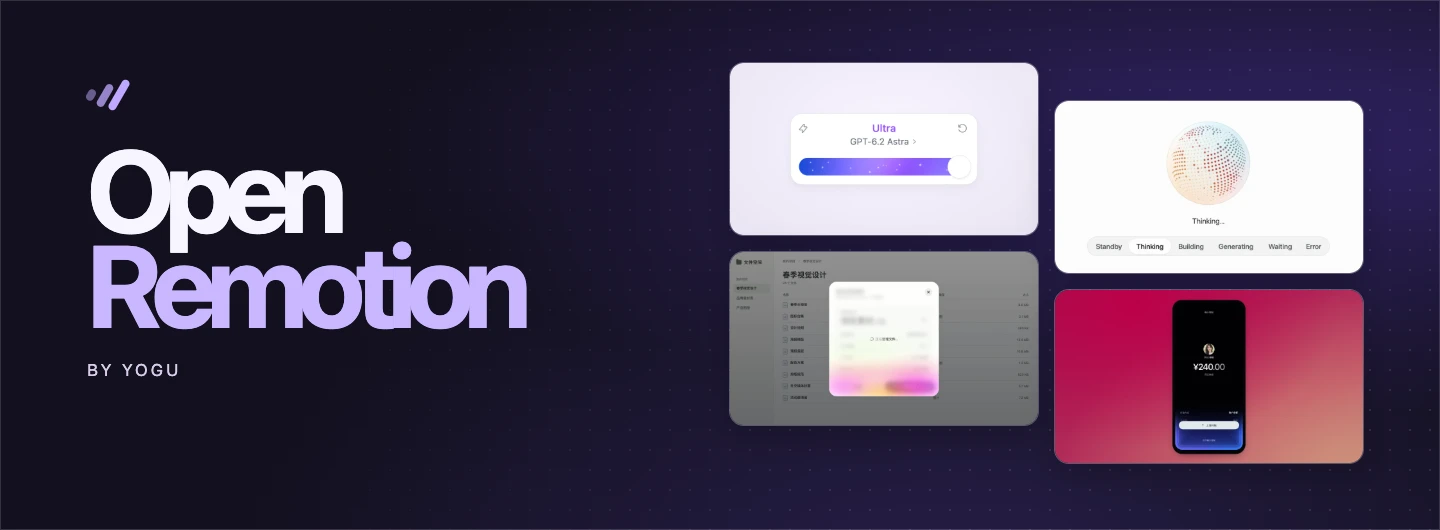
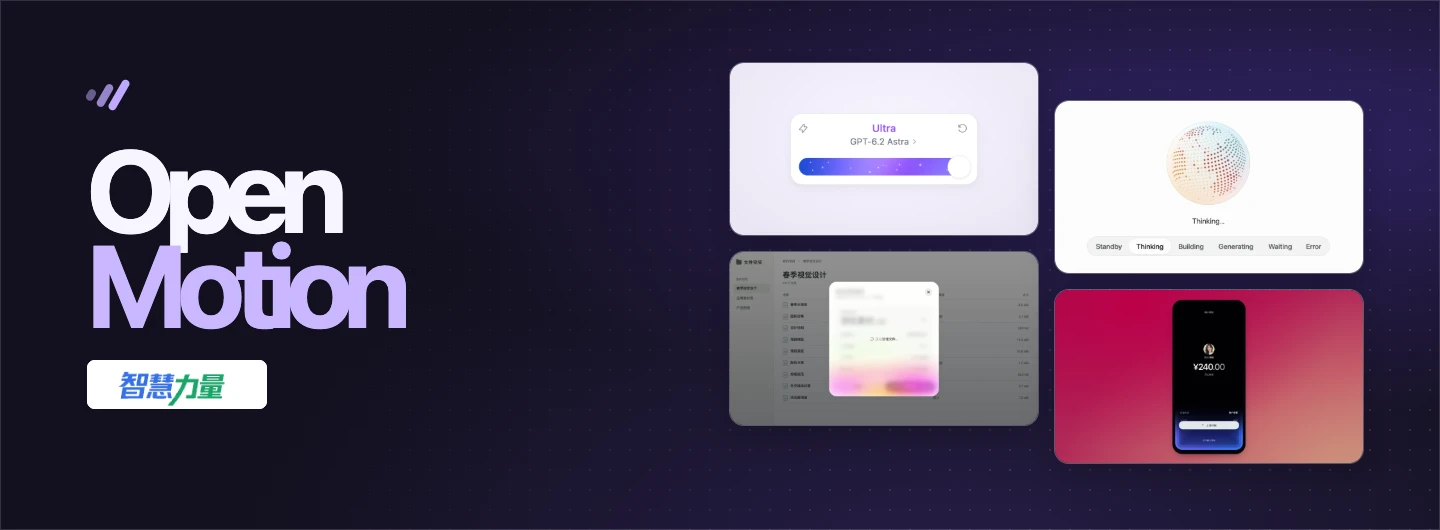
swipe send

Changed region(s): [[0.0625, 0.4528, 0.375, 0.634], [0.0625, 0.6642, 0.1875, 0.7849]]

diff --git a/README.md b/README.md
@@ -1,11 +1,11 @@
 <h1 align="center">
-  <img src="./assets/cover.webp" alt="Open Remotion" width="1120">
+  <img src="./assets/cover.webp" alt="OpenMotion" width="1120">
 </h1>
 
 <p align="center"><strong>开源 UI 微交互资料库</strong></p>
 <p align="center">从滑块、状态提示到加载与手势确认，每个案例都提供界面源码与动效拆解。</p>
 <p align="center">
-  <a href="#案例画廊">案例画廊</a> · <a href="#资料索引">资料索引</a> · <a href="./LICENSE">Apache 2.0</a>
+  <a href="#案例画廊">案例画廊</a> · <a href="#资料索引">资料索引</a> · <a href="#关于有谷">关于有谷</a> · <a href="./LICENSE">Apache 2.0</a>
 </p>
 
 ## 案例画廊
@@ -50,4 +50,10 @@
 | 导出光带 | [单文件 HTML](./03-webgl-loading/index.html) | [微交互原理速查手册](./03-webgl-loading/导出光带-微交互原理速查手册.md) |
 | 上滑转账 | [界面入口](./04-swipe-send/index.html) · [手势与动效](./04-swipe-send/motion.js) · [光效渲染](./04-swipe-send/renderer.js) | [微交互原理速查手册](./04-swipe-send/上滑转账-微交互原理速查手册.md) |
 
-[有谷 Yogu](https://yogu.pro) 维护 · [Apache License 2.0](./LICENSE)
+## 关于有谷
+
+<img src="./assets/yogu-logo.png" alt="智慧力量公司标志" width="212" height="58">
+
+**杭州智慧力量科技有限公司（有谷 Yogu）**开发面向个人和团队的 AI 产品，涵盖知识工作与学习、内容与媒体生产，以及企业智能应用。OpenMotion 由有谷维护，用于分享 UI 微交互案例、源码与原理笔记。
+
+[公司官网](https://yogu.pro) · [联系我们](https://yogu.pro/contact)
